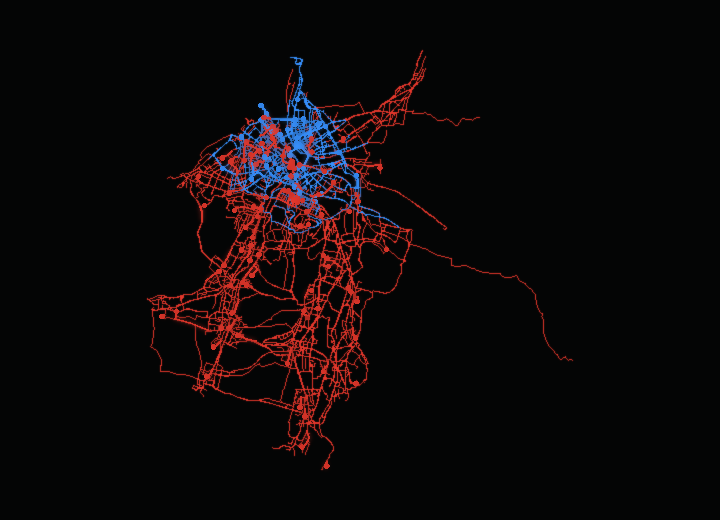
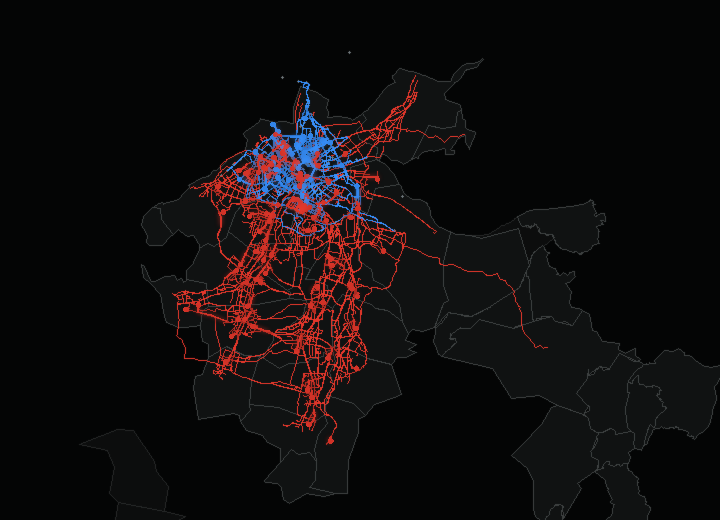
improved hero image, improved animations of e-bike route animations

diff --git a/route-animation.js b/route-animation.js
@@ -17,6 +17,7 @@
   if (!root) return;
 
   const DATA_URL = 'data/trips_animation_w35.json';
+  const MOBILE_DATA_URL = 'data/trips_animation_w35_mobile.json';
   const MAPLIBRE_CSS = 'https://unpkg.com/maplibre-gl@4.7.1/dist/maplibre-gl.css';
   const MAPLIBRE_JS = 'https://unpkg.com/maplibre-gl@4.7.1/dist/maplibre-gl.js';
   const DECK_JS = 'https://unpkg.com/deck.gl@9.0.27/dist.min.js';
@@ -35,6 +36,7 @@
   const modeBtns = Array.from(document.querySelectorAll('.route-mode-btn'));
   const providerBtns = Array.from(document.querySelectorAll('.route-provider-btn'));
   const prefersReduced = window.matchMedia('(prefers-reduced-motion: reduce)').matches;
+  const lightDevice = window.matchMedia('(max-width: 760px), (pointer: coarse)').matches;
 
   let map = null;
   let deckOverlay = null;
@@ -47,6 +49,10 @@
   let playing = false;
   let initialized = false;
   let frameId = null;
+
+  if (lightDevice) {
+    setStatus('Mobile light mode: 600 routed trips · tap Play to animate');
+  }
 
   function loadCss(href) {
     if (document.querySelector(`link[href="${href}"]`)) return Promise.resolve();
@@ -84,8 +90,17 @@
   }
 
   function setPlayState(nextPlaying) {
+    if (playing === nextPlaying) return;
     playing = nextPlaying;
     if (playBtn) playBtn.textContent = playing ? 'Pause' : 'Play';
+    if (frameId) {
+      cancelAnimationFrame(frameId);
+      frameId = null;
+    }
+    if (playing) {
+      lastTs = performance.now();
+      frameId = requestAnimationFrame(tick);
+    }
   }
 
   function formatClock(sec) {
@@ -124,10 +139,10 @@
         getTimestamps: d => mode === 'week' ? d.t : d.td,
         getColor: providerColor,
         opacity: 0.9,
-        widthMinPixels: window.innerWidth < 700 ? 1.8 : 2.4,
+        widthMinPixels: lightDevice ? 1.4 : 2.4,
         jointRounded: true,
         capRounded: true,
-        trailLength: mode === 'week' ? 1500 : 1200,
+        trailLength: lightDevice ? 900 : (mode === 'week' ? 1500 : 1200),
         currentTime,
         shadowEnabled: false,
         updateTriggers: {
@@ -149,9 +164,9 @@
     if (playing) {
       const period = mode === 'week' ? WEEK_S : DAY_S;
       currentTime = (currentTime + dt * speed) % period;
+      renderLayers();
+      frameId = requestAnimationFrame(tick);
     }
-    renderLayers();
-    frameId = requestAnimationFrame(tick);
   }
 
   async function ensureLibraries() {
@@ -169,7 +184,7 @@
     try {
       const [_, response] = await Promise.all([
         ensureLibraries(),
-        fetch(DATA_URL)
+        fetch(lightDevice ? MOBILE_DATA_URL : DATA_URL)
       ]);
       if (!response.ok) throw new Error(`Route data failed: ${response.status}`);
       trips = await response.json();
@@ -178,27 +193,28 @@
         container: mapEl,
         style: 'https://basemaps.cartocdn.com/gl/dark-matter-gl-style/style.json',
         center: [7.589, 47.555],
-        zoom: window.innerWidth < 700 ? 11.1 : 12.45,
-        pitch: window.innerWidth < 700 ? 25 : 44,
-        bearing: -7,
-        antialias: true,
+        zoom: lightDevice ? 11.0 : 12.45,
+        pitch: lightDevice ? 0 : 44,
+        bearing: lightDevice ? 0 : -7,
+        antialias: !lightDevice,
         attributionControl: true
       });
 
       deckOverlay = new deck.MapboxOverlay({ layers: [], interleaved: false });
       map.addControl(deckOverlay);
-      map.addControl(new maplibregl.NavigationControl({ visualizePitch: true }), 'top-right');
+      if (!lightDevice) {
+        map.addControl(new maplibregl.NavigationControl({ visualizePitch: true }), 'top-right');
+      }
       window.__poteRouteMap = map;
 
       map.on('load', () => {
         if (startOverlay) startOverlay.classList.add('is-hidden');
         if (playBtn) playBtn.disabled = false;
         if (speedInput) speedInput.disabled = false;
-        setStatus(`${trips.length.toLocaleString('en-US')} routed trips loaded`);
-        setPlayState(!prefersReduced);
+        setStatus(`${trips.length.toLocaleString('en-US')} routed trips loaded${lightDevice ? ' · mobile light mode' : ''}`);
         lastTs = performance.now();
         renderLayers();
-        frameId = requestAnimationFrame(tick);
+        setPlayState(!prefersReduced && !lightDevice);
       });
     } catch (err) {
       console.error(err);